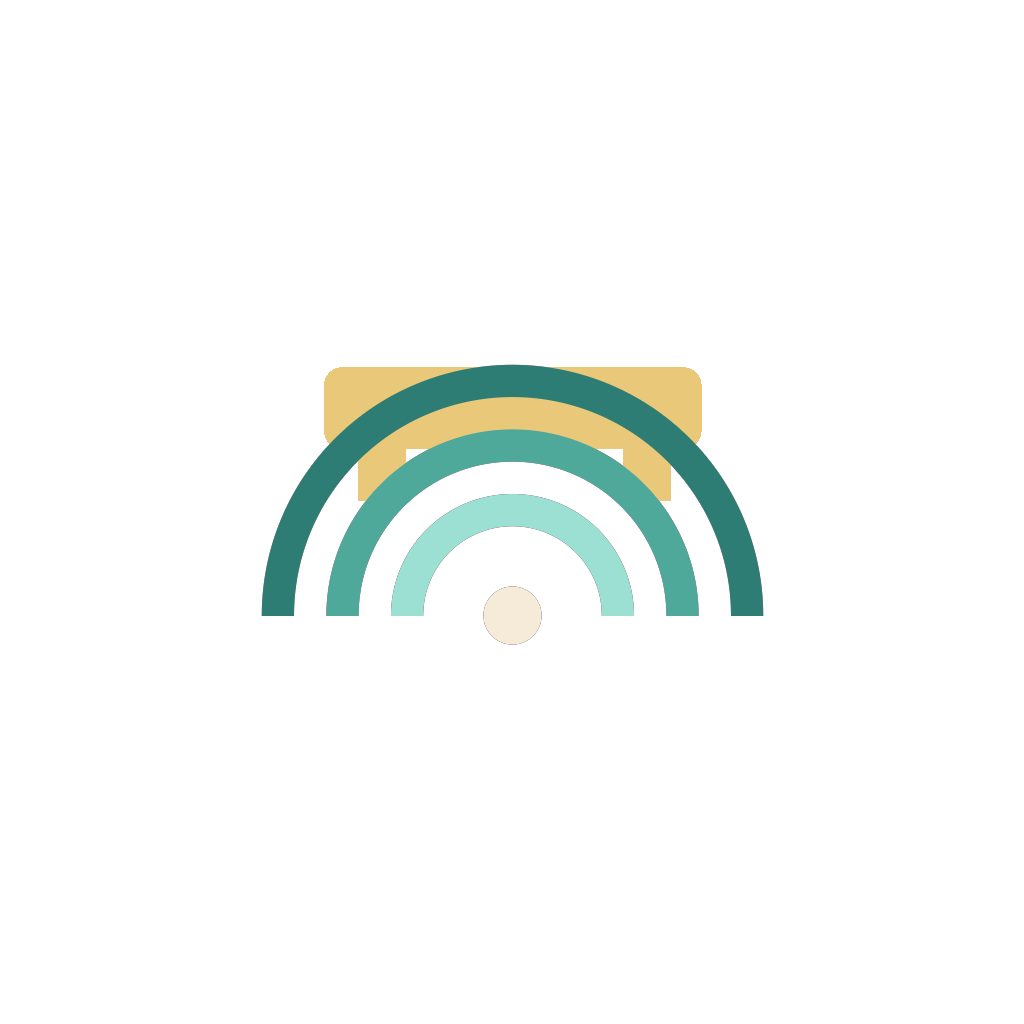
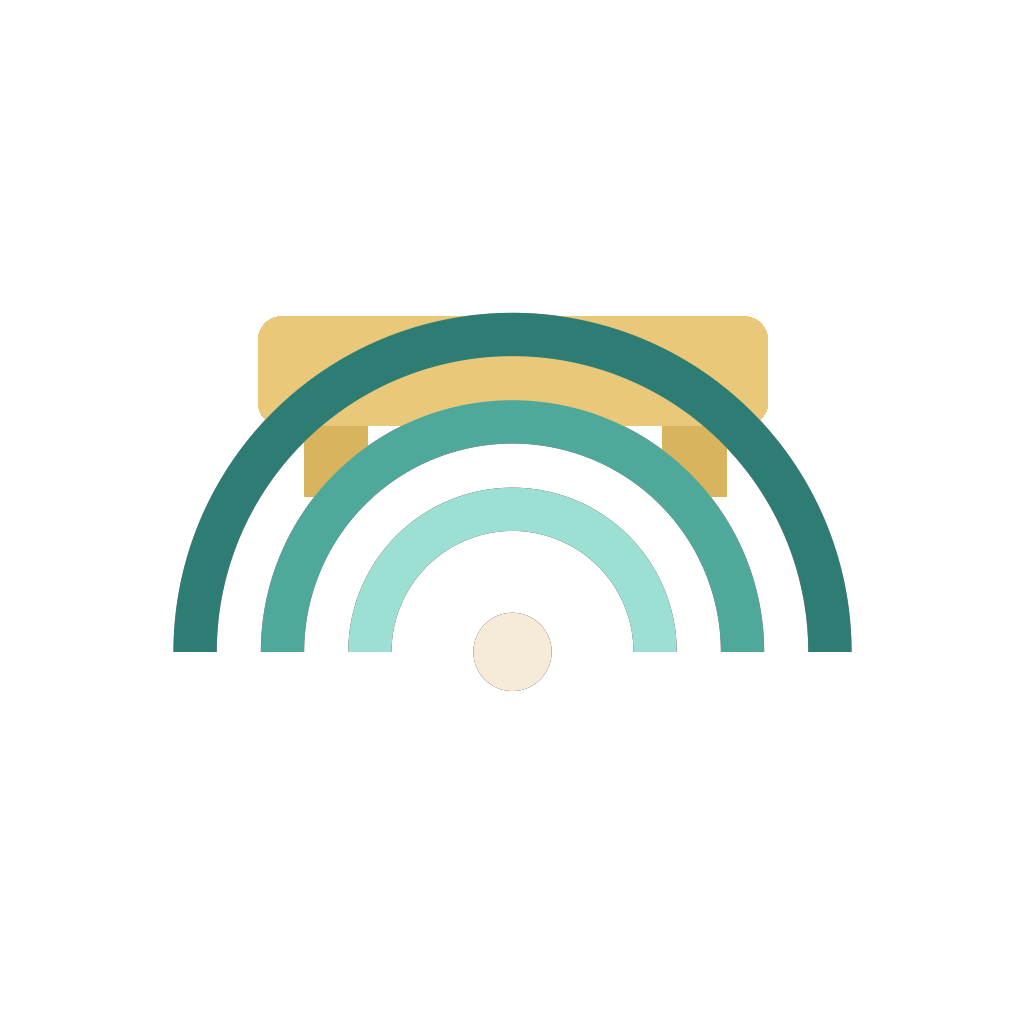
图标比例三端统一;修好锁屏时间数字(H9 的真正原因)
图标(以 macOS 版比例为准,那版观感最匀):图案宽 ≈ 可见区 67%,
金色横梁 = 外圈弧直径的 80% 且居中略短于半圆。
- Android:旧版图案宽 68dp、横梁 68dp,而**自适应图标可见区只有中心 72/108**,
  所以又"撑满"又横梁过长。改为图案 48dp(x 30..78)、横梁 38.6dp 居中,竖向在 108 内居中。
- Android 备选「无外层圆角矩形」版一并提交(ic_launcher_foreground_nobg +
  ic_launcher_background_none,ic_launcher.xml 注释里写了切换方法)。
  注意:无底版必须把声波弧从半透明(0.46/0.72)改成**不透明深浅梯度** ——
  半透明是为压在水墨底上设计的,去掉底会在浅色壁纸上发虚。
- 鸿蒙:前景 SC 0.68 → 0.92,图案宽从画布 46% 提到 62%,解决"图案太小、留白太大"。

锁屏时间数字 `--:--` 已解决(此前记为 H9 未解决):
AVPlaybackState.position.updateTime 要的是**开机 uptime**
(systemDateTime.getUptime(STARTUP)),不是 Date.now() 的 epoch —— 两者差 5 个数量级,
系统推算的偏移离谱故拒绝渲染数字;而进度条只吃 elapsedTime + metadata.duration,
照样会动,这个"一半能用"的表象正是我此前误判为平台限制的原因。
TROUBLESHOOTING 新增 H17 记录该误诊过程。

两端均构建通过(鸿蒙 0 错 0 警);**图标与 H17 尚未装机验证** —— 设备仍未连回。

Changed region(s): [[0.1562, 0.2812, 0.8438, 0.6562], [0.4375, 0.5625, 0.5625, 0.6875]]

diff --git a/TROUBLESHOOTING.md b/TROUBLESHOOTING.md
@@ -329,3 +329,17 @@
 - **解法**:新建 `FeedUpdateExtension`(实现 `onWorkStart/onWorkStop`)并在 `module.json5` 的 `extensionAbilities` 里声明。
 - **注意**:扩展跑在**独立上下文**里,拿不到 UI 侧的 `AppContainer` 单例,须自行最小化装配(`L`/`Prefs`/`JsonFile`/订阅/repository);且它的 `context` 是 `ExtensionContext` 而非 `UIAbilityContext` —— 相关初始化接口的形参应放宽到 `common.Context`,别强转(强转会被 ArkTS 直接拒绝)。
 - **另外**:`notificationManager.requestEnableNotification()` 的无参重载自 API 12 废弃,要传 `UIAbilityContext`(授权弹窗需挂在具体界面上)。
+
+### H17. 锁屏时间数字 `--:--`:`updateTime` 要的是开机 uptime,不是 epoch(H9 的真正原因)
+
+- **现场**:见 H9 —— 锁屏卡片封面/标题/控制键都对、**进度条随播放推进**,但两端时间数字一直 `--:--`。
+  修掉「元信息写太早导致 duration=0」后仍未解决,一度被我判为"该机型渲染行为、无解"。
+- **根因**:`AVPlaybackState.position.updateTime` 的文档写的是「设置 elapsedTime 时的 **system time**」,
+  这里指的是**开机以来的 uptime**(`systemDateTime.getUptime(TimeType.STARTUP)`,量级约 1e7),
+  而我传的是 `Date.now()` 的 epoch 毫秒(约 1.7e12)。**差 5 个数量级** ⇒ 系统据此推算的播放偏移完全离谱,
+  于是拒绝渲染时间数字;而进度条只吃 `elapsedTime` 与 metadata 的 `duration`,所以照样会动 ——
+  这个"部分能用"的表象正是误判的来源。
+- **解法**:`updateTime: systemDateTime.getUptime(systemDateTime.TimeType.STARTUP, false)`。
+- **教训 / 规律**:两条。① **"system time" 这类含糊措辞要当心**,系统 API 里它常指单调时钟而非墙钟;
+  传错不会报错,只会静默算错。② **"一半能用"比全坏更容易误诊** —— 进度条能动让我以为数据已被正确消费,
+  从而把问题归给平台。遇到部分生效的现象,应逐个字段核对语义,而不是先归因于"系统限制"。

diff --git a/FEATURES.md b/FEATURES.md
@@ -12,7 +12,6 @@
 > 界面文案完整外置(163 键 × 5 语言:简中 / 英 / 法 / 西 / 繁中)。
 > 鸿蒙端**尚未包含**:真实频谱(鸿蒙无等价系统混音抓取,按 macOS 走纯程序化墨纹)、
 > 离线转录(macOS 独有,依赖 Apple Speech;鸿蒙需换 Core Speech Kit 且词级时间戳未必对齐)。
-> 已知未解决:锁屏卡片的进度**条**随播放推进,但两端的时间**数字**显示 `--:--`(详见 TROUBLESHOOTING H9)。
 
 ---
 
